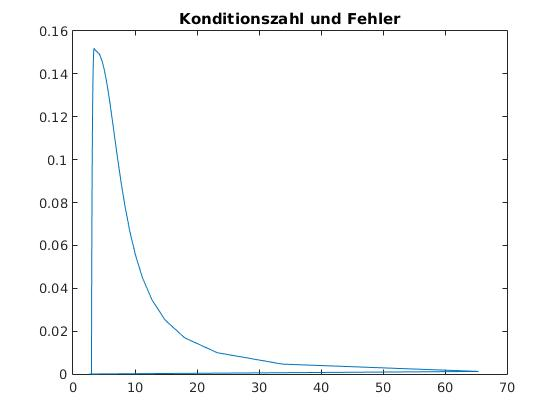
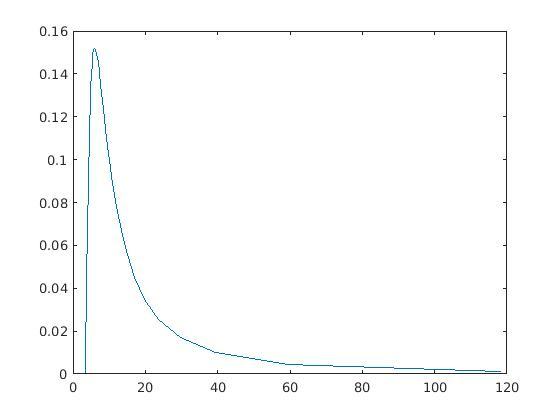
ange

Changed region(s): [[0.1214, 0.031, 0.9411, 0.9286], [0.3339, 0.8048, 0.3643, 0.8357], [0.3036, 0.7738, 0.3339, 0.8048]]

diff --git a/TransformationObject.m b/TransformationObject.m
@@ -19,8 +19,6 @@ classdef TransformationObject < handle
         maxError
         original_pts_polar_phi
         original_pts_polar_r
-        dets
-        kond
         dets2
         kond2
     end
@@ -42,37 +40,22 @@ classdef TransformationObject < handle
             obj.transformed_pts_jsp = (transform(obj.original_pts, obj.angles,obj.arms)); %to joint space
             %berechne determinante von jacobi matrix mit werten(winkeln)
             %aus den spalten von pts_jsp
-            
-            for x =  1:size(obj.transformed_pts_jsp,2)
-                
-                col = obj.transformed_pts_jsp(:,x);
-                [j,d] = jac(1,1,1,col(1),col(2),col(3));
-                obj.dets(x) = d;
-                if x==1
-                    def = obj.dets(x)
-                else
-                 def = obj.dets(x)-obj.dets(x-1);
-                end
-            e = eig(j);
-            obj.kond(x) = abs(double(max(e)))/abs(double(min(e)));
-            end
-          
+                      
         end
         function obj = trajGen(obj)
             %build trajectory from transformed points
             obj.trajectory = (trajectory1(obj.transformed_pts_jsp,obj.sampleSize_2)); %in joint space
             for p = 1:length(obj.trajectory)
-                point = obj.trajectory(:,p)
+                point = obj.trajectory(:,p);
                 obj.dets2(p) = obj.arms(1)*obj.arms(2)*sin(point(1) + point(2))*cos(point(1)) - obj.arms(1)*obj.arms(2)*cos(point(1) + point(2))*sin(point(1))
                 [j,d] = jac(obj.arms(1),obj.arms(2),obj.arms(3),point(1),point(2),point(3));
 %                obj.dets2(p) = d;
                 if p==1
-                    def = obj.dets2(p)
+                    def = obj.dets2(p);
                 else
                  def = obj.dets2(p)-obj.dets2(p-1);
                 end
-            e = eig(j);
-            obj.kond2(p) = abs(double(max(e)))/abs(double(min(e)));
+            obj.kond2(p) = cond(j);
             end
         end
         function obj = toTSpace(obj)

diff --git a/trajectories/trajectory1.m b/trajectories/trajectory1.m
@@ -5,22 +5,22 @@ function [ trajectory ] = trajectory1( joint_list ,sample_size )
 %   joint n]}
 %   trajectory: {[mehr gelenkstellungen,gesamplet, für joint1],[..für joint
 %   2],[.. für joint n]}
-    joint_pts = size(joint_list,2)
-    num_joints = size(joint_list,1)
-    doublings = joint_pts-2
-    all_el_with_dd = (joint_pts-1)*sample_size
-    num_el = all_el_with_dd-doublings
+    joint_pts = size(joint_list,2);
+    num_joints = size(joint_list,1);
+    doublings = joint_pts-2;
+    all_el_with_dd = (joint_pts-1)*sample_size;
+    num_el = all_el_with_dd-doublings;
    % trajectory = ones(num_joints,num_el)
     for j = 1:num_joints
-        joint_movements = joint_list(j,:)
+        joint_movements = joint_list(j,:);
         %joint list einträge sind im bereich -pi bis pi wenn das vorzeichen
         %wechselt und ein Eintrag pi oder -pi ist, ist es also besser wenn
         %dieser eintrag zu -pi oder pi wird
         if(double(abs(joint_movements(end)-joint_movements(1)))> pi)
             if(joint_movements(end) == pi || joint_movements(end) == -pi)
-                joint_movements(end) = -1*joint_movements(end)
+                joint_movements(end) = -1*joint_movements(end);
             else
-                joint_movements(1) = -1*joint_movements(1)
+                joint_movements(1) = -1*joint_movements(1);
             end
         end
         %for numeric variables
@@ -31,8 +31,8 @@ function [ trajectory ] = trajectory1( joint_list ,sample_size )
 %                 joint_movements(1) = wrapTo2Pi(joint_movements(1))
 %             end
 %         end
-        sample_list = sample_multiple(joint_movements,sample_size)
-        trajectory(j,:)= (sample_list)
+        sample_list = sample_multiple(joint_movements,sample_size);
+        trajectory(j,:)= (sample_list);
     end
         
 

diff --git a/kinematics/jac.m b/kinematics/jac.m
@@ -11,16 +11,16 @@ sol3 = (theta1+theta2+theta3); %groß theta
 
 J = [diff(sol1,theta1),diff(sol1,theta2),diff(sol1,theta3); 
     diff(sol2,theta1),diff(sol2,theta2),diff(sol2,theta3);
-    diff(sol3,theta1),diff(sol3,theta2),diff(sol3,theta3)]
-J_sub = subs(J,theta1,theta_vector1)
-J_sub = subs(J_sub,theta2,theta_vector2)
-J_sub = subs(J_sub,theta3,theta_vector3)
-J_sub = subs(J_sub,length1, l1)
-J_sub = subs(J_sub,length2, l2)
-J_sub = subs(J_sub,length3, l3)
-D = det(J_sub)
+    diff(sol3,theta1),diff(sol3,theta2),diff(sol3,theta3)];
+J_sub = subs(J,theta1,theta_vector1);
+J_sub = subs(J_sub,theta2,theta_vector2);
+J_sub = subs(J_sub,theta3,theta_vector3);
+J_sub = subs(J_sub,length1, l1);
+J_sub = subs(J_sub,length2, l2);
+J_sub = subs(J_sub,length3, l3);
+D = det(J_sub);
 %D_ = length1*length2*sin(theta1 + theta2)*cos(theta1) - length1*length2*cos(theta1 + theta2)*sin(theta1)
-jacobi_matrix = J_sub
-determinante = double(D)
+jacobi_matrix = J_sub;
+determinante = double(D);
 end
 

diff --git a/kinematics/ikin.m b/kinematics/ikin.m
@@ -11,10 +11,10 @@ function [theta,theta2] = ikin(ox,oy,omega,length) %annahme - ox und oy sind an 
 % oy = vpa(oy)
 % omega = vpa(omega)
 % length = vpa(length)
-ox = sym(ox)
-oy = sym(oy)
-omega = sym(omega)
-length = sym(length)
+ox = sym(ox);
+oy = sym(oy);
+omega = sym(omega);
+length = sym(length);
 o_wrist = [ox-length(3)*cos(omega);oy-length(3)*sin(omega);0];
 l = sqrt(o_wrist(1)^2+o_wrist(2)^2);
 stuff = (l^2-length(1)^2-length(2)^2)/(2*length(1)*length(2));
